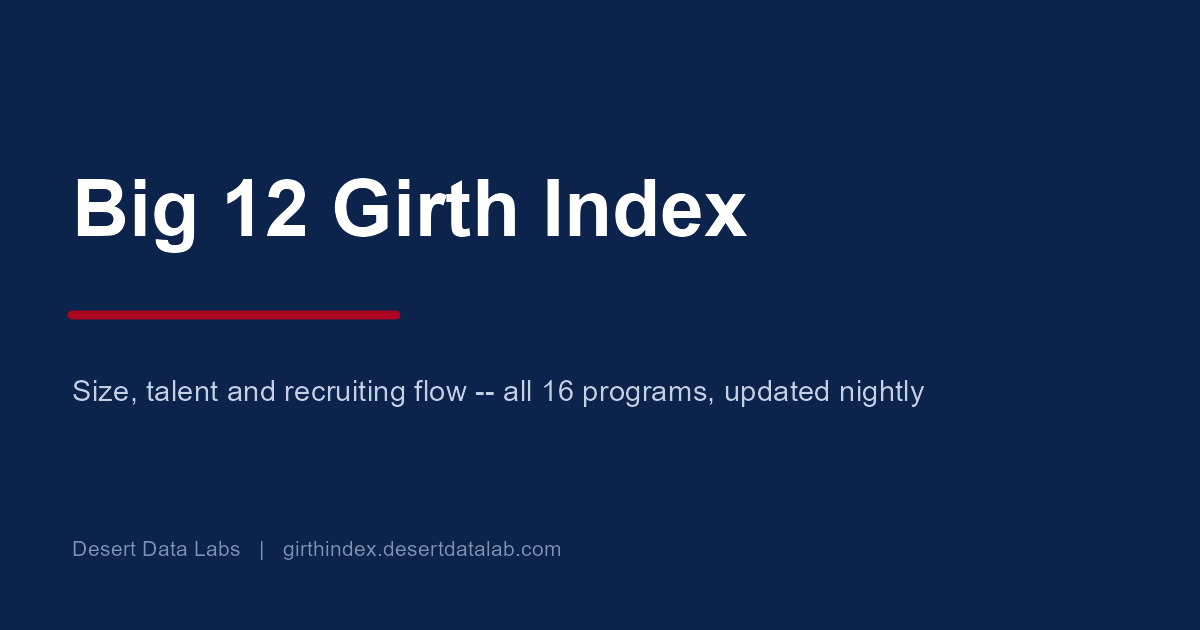
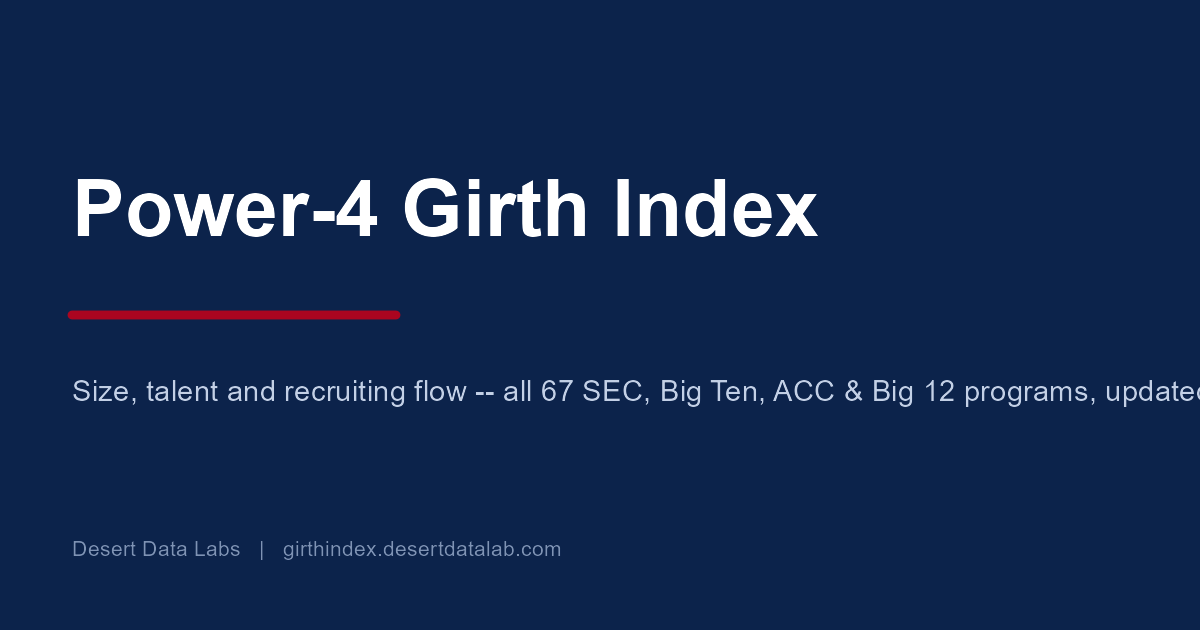
Rebrand: Big 12 Girth Index -> Power-4 Girth Index (67-team reality)
App header + Home hero brand -> 'Power-4 Girth Index'; PNG export default
name -> power4-girth-index. Landing page: title/og/hero/brief copy ->
'all 67 SEC, Big Ten, ACC & Big 12 programs'; disclaimer generalized; og
card regenerated. The conference-aware DATA labels (via conf_label) are
untouched — a team's boards still name its own conference.

Changed region(s): [[0.0617, 0.2714, 0.6783, 0.4222], [0.4317, 0.6032, 1.0, 0.6635]]

diff --git a/docs/index.html b/docs/index.html
@@ -3,13 +3,13 @@
 <head>
   <meta charset="utf-8">
   <meta name="viewport" content="width=device-width, initial-scale=1">
-  <title>Big 12 Girth Index — recruiting size analytics by Desert Data Labs</title>
-  <meta name="description" content="Every Big 12 recruit's height, weight, and rating, 2016–2026 — interactive body maps, beef boards, coach-era breakdowns, a 3-3-5 war room, and talent-vs-results analytics. Free.">
+  <title>Power-4 Girth Index — recruiting size analytics by Desert Data Labs</title>
+  <meta name="description" content="Every Power-4 recruit's height, weight, and rating across all 67 SEC, Big Ten, ACC & Big 12 programs, 2016–2026 — interactive body maps, beef boards, coach-era breakdowns, a 3-3-5 war room, and talent-vs-results analytics. Free.">
 
   <!-- social share cards -->
   <meta property="og:type" content="website">
-  <meta property="og:title" content="Big 12 Girth Index">
-  <meta property="og:description" content="Who has the biggest bodies in the Big 12? Interactive recruiting size analytics: body maps, beef boards, coach eras, the 3-3-5 war room, and talent vs results. 2016–2026, football + basketball.">
+  <meta property="og:title" content="Power-4 Girth Index">
+  <meta property="og:description" content="Who has the biggest bodies in the Power 4? Interactive recruiting size analytics across all 67 SEC, Big Ten, ACC & Big 12 programs: body maps, beef boards, coach eras, the 3-3-5 war room, and talent vs results. 2016–2026, football + basketball.">
   <meta property="og:url" content="https://girthindex.desertdatalab.com/">
   <meta property="og:image" content="https://girthindex.desertdatalab.com/og-card.png">
   <meta name="twitter:card" content="summary_large_image">
@@ -94,11 +94,11 @@
 <body>
 
   <div class="hero">
-    <h1>The Big 12 <span>Girth Index</span></h1>
-    <p class="tag">Who has the biggest bodies in the Big 12? Every recruit's
-      height, weight, and rating — 2016 to 2026, football and basketball,
-      all 16 programs — turned into interactive charts a fan can read and an
-      analyst can defend.</p>
+    <h1>The Power-4 <span>Girth Index</span></h1>
+    <p class="tag">Who has the biggest bodies in college football? Every
+      recruit's height, weight, and rating — 2016 to 2026, football and
+      basketball, all 67 SEC, Big Ten, ACC &amp; Big 12 programs — turned into
+      interactive charts a fan can read and an analyst can defend.</p>
     <a class="launch" id="launch"
        href="https://019eb854-79ca-079b-a1d7-f5b7e4f673b0.share.connect.posit.cloud/">
        Launch the app &rarr;</a>
@@ -108,7 +108,7 @@
 
   <div class="shot">
     <img src="assets/bodymap.png"
-         alt="The Body Map: every Big 12 player by height and weight, with Arizona highlighted by position">
+         alt="The Body Map: every player in the conference by height and weight, with your team highlighted by position">
   </div>
 
   <section>
@@ -159,8 +159,8 @@
       — data validity outranks everything else here.
     </div>
     <div class="sources" style="border-left-color: var(--cardinal); margin-top: 14px;">
-      <strong>This week in the Big 12.</strong> New commits, portal additions,
-      and class movement across all 16 programs — auto-written from the
+      <strong>This week in the Power 4.</strong> New commits, portal additions,
+      and class movement across all 67 programs — auto-written from the
       nightly data, every number with its sample size.
       <a href="brief/">Read the latest brief &rarr;</a>
     </div>
@@ -182,7 +182,7 @@
   <footer>
     Built by <a href="mailto:desertdatalabs@gmail.com">Desert Data Labs</a>
     · Tucson, AZ · Data: 247Sports &amp; CollegeFootballData ·
-    Not affiliated with the University of Arizona or the Big 12 Conference.
+    Not affiliated with the University of Arizona or any conference or program.
   </footer>
 
   <script>
